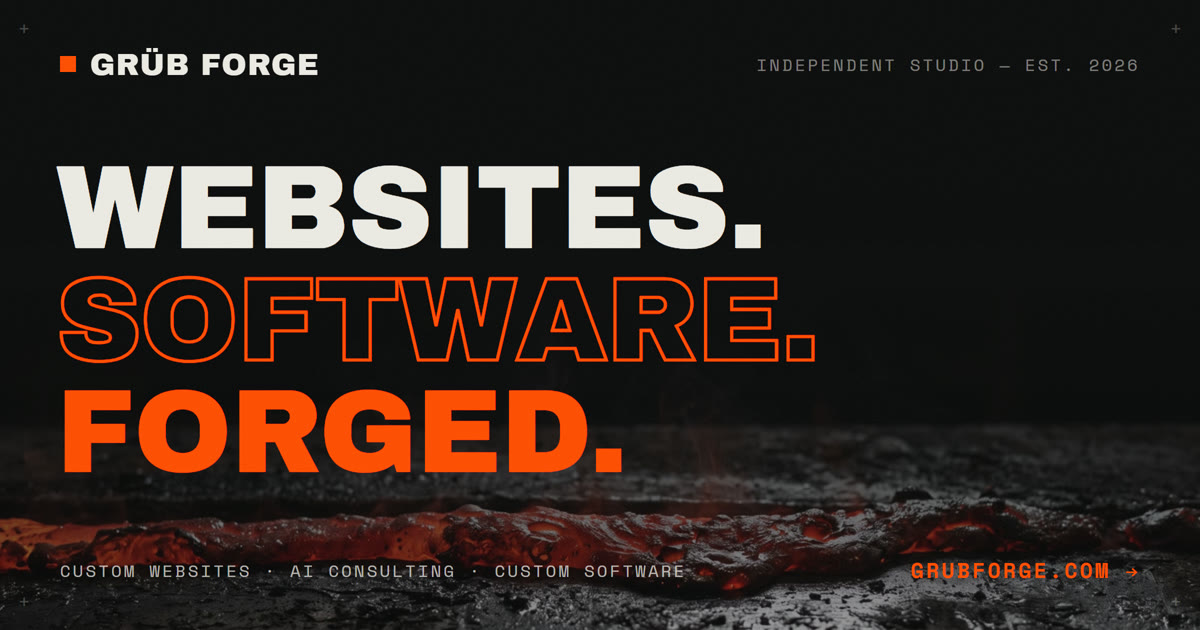
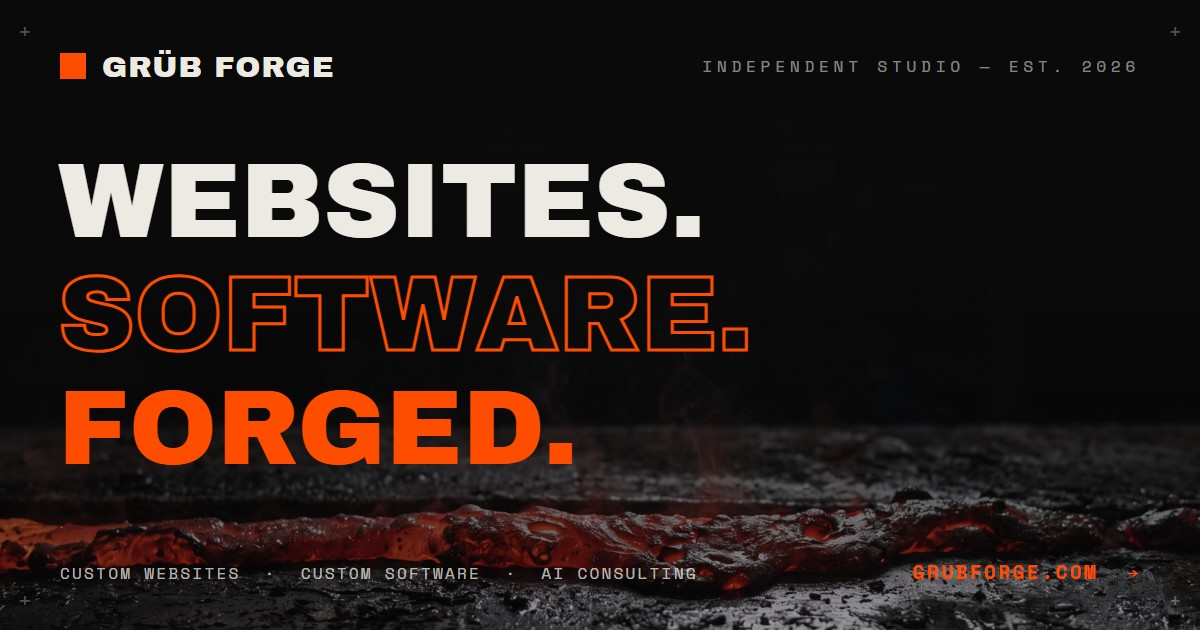
Humanize copy in first person, order services websites-software-AI

diff --git a/index.html b/index.html
@@ -3,10 +3,10 @@
 <head>
   <meta charset="UTF-8">
   <meta name="viewport" content="width=device-width, initial-scale=1.0">
-  <title>GRÜB FORGE — Custom Websites · AI Consulting · Software That Ships</title>
-  <meta name="description" content="GRÜB FORGE is an independent web &amp; software studio. Fully custom websites — no templates, built to convert — plus AI solutions that cut workload and custom software built from first sketch to launch.">
+  <title>GRÜB FORGE — Custom Websites · Software That Ships · AI Consulting</title>
+  <meta name="description" content="GRÜB FORGE is a one-person web &amp; software studio. Fully custom websites with no templates, software built from first sketch to launch, and AI that cuts real workload.">
   <meta property="og:title" content="GRÜB FORGE — Websites. Software. Forged.">
-  <meta property="og:description" content="Fully custom websites. AI consulting. Software that ships. One builder, zero middlemen.">
+  <meta property="og:description" content="Fully custom websites. Software that ships. AI consulting. One builder, zero middlemen.">
   <meta property="og:type" content="website">
   <meta property="og:url" content="https://grubforge.com/">
   <meta property="og:image" content="https://grubforge.com/assets/og-card.jpg">
@@ -983,9 +983,9 @@
 
     <div class="hero-row">
       <p class="hero-sub">
-        <strong>Fully custom websites</strong> that make your business impossible to
-        ignore. AI that <strong>cuts real workload</strong>. Software built around
-        how you actually operate. One builder. Zero middlemen.
+        I build <strong>fully custom websites</strong>, software shaped around how your
+        business actually runs, and AI that <strong>cuts real workload</strong>.
+        One builder. Zero middlemen.
       </p>
       <div class="cta-row">
         <a class="btn btn-solid" href="#contact" data-mag><em>Start a Project</em><em>→</em></a>
@@ -996,8 +996,8 @@
 
   <div class="hero-meta mono">
     <span><b>A.</b> Custom Websites</span>
-    <span><b>B.</b> AI Consulting</span>
-    <span><b>C.</b> Custom Software</span>
+    <span><b>B.</b> Custom Software</span>
+    <span><b>C.</b> AI Consulting</span>
     <span>Scroll ↓</span>
   </div>
 </section>
@@ -1007,12 +1007,12 @@
   <div class="mq">
     <div class="mq-track">
       <div class="mq-group">
-        <span>Custom Websites</span><s>✦</s><span>AI Consulting</span><s>✦</s><span>Custom Software</span><s>✦</s><span>Built to Ship</span><s>✦</s>
-        <span>Custom Websites</span><s>✦</s><span>AI Consulting</span><s>✦</s><span>Custom Software</span><s>✦</s><span>Built to Ship</span><s>✦</s>
+        <span>Custom Websites</span><s>✦</s><span>Custom Software</span><s>✦</s><span>AI Consulting</span><s>✦</s><span>Built to Ship</span><s>✦</s>
+        <span>Custom Websites</span><s>✦</s><span>Custom Software</span><s>✦</s><span>AI Consulting</span><s>✦</s><span>Built to Ship</span><s>✦</s>
       </div>
       <div class="mq-group">
-        <span>Custom Websites</span><s>✦</s><span>AI Consulting</span><s>✦</s><span>Custom Software</span><s>✦</s><span>Built to Ship</span><s>✦</s>
-        <span>Custom Websites</span><s>✦</s><span>AI Consulting</span><s>✦</s><span>Custom Software</span><s>✦</s><span>Built to Ship</span><s>✦</s>
+        <span>Custom Websites</span><s>✦</s><span>Custom Software</span><s>✦</s><span>AI Consulting</span><s>✦</s><span>Built to Ship</span><s>✦</s>
+        <span>Custom Websites</span><s>✦</s><span>Custom Software</span><s>✦</s><span>AI Consulting</span><s>✦</s><span>Built to Ship</span><s>✦</s>
       </div>
     </div>
   </div>
@@ -1024,20 +1024,20 @@
     <p class="slab mono"><i>00</i> The Studio</p>
 
     <p class="mani disp" data-fill data-hot="FORGED.">
-      Most websites are templates. Most software is bloat. Ours is FORGED. measured, heated, hammered — and shipped.
+      Most websites are templates. Most software is bloat. Ours is FORGED. measured, heated, hammered, shipped.
     </p>
 
     <div class="studio-grid">
       <div class="studio-copy" data-rv>
         <p>
-          <strong>GRÜB FORGE</strong> is an independent web &amp; software studio with one
-          operating principle: find the real problem, then build the sharpest possible tool for it.
-          No discovery-phase theater. No four layers of account managers.
+          <strong>GRÜB FORGE</strong> is a one-person web &amp; software studio. The whole
+          pitch: find the real problem, build the sharpest tool for it, and skip everything
+          agencies bolt on to pad the invoice.
         </p>
         <p>
-          When you work with us, you work with <strong>the builder</strong> — the same
-          person who architects the system writes the code that ships it. That's why our
-          products are live, in production, and actually getting used.
+          When you hire the forge, you get <strong>the builder</strong>. I scope the work,
+          I write the code, I answer the email. That's why everything on this page is live
+          and in use, not mocked up.
         </p>
       </div>
 
@@ -1053,13 +1053,13 @@
 
 <!-- ─── SERVICES ────────────────────────────────── -->
 <section id="services">
-  <p class="slab mono"><i>01</i> What We Do</p>
+  <p class="slab mono"><i>01</i> What I Do</p>
 
   <a class="svc" href="mailto:jeremy@grubforge.com?subject=Website%20Inquiry" data-rv>
     <span class="svc-idx mono">/01</span>
     <h3 class="svc-name disp">Custom<br>Websites</h3>
     <div class="svc-info">
-      <p>Your website is your storefront. We design and build fully custom sites — no templates, no page builders — engineered to look serious, load fast, and convert.</p>
+      <p>Your website is your storefront. I design and build it from scratch, make sure it loads fast, and shape every page around turning visitors into customers.</p>
       <ul>
         <li>Fully custom design &amp; build</li>
         <li>No templates. No page-builder bloat</li>
@@ -1070,31 +1070,31 @@
     <span class="svc-arrow">→</span>
   </a>
 
-  <a class="svc" href="mailto:jeremy@grubforge.com?subject=AI%20Consulting%20Inquiry" data-rv>
-    <span class="svc-idx mono">/02</span>
-    <h3 class="svc-name disp">AI Consulting<br>&amp; Automation</h3>
-    <div class="svc-info">
-      <p>We find the hours your team burns on repetitive work — then build AI that takes them back.</p>
-      <ul>
-        <li>Workflow audits &amp; opportunity maps</li>
-        <li>Custom agents &amp; automations</li>
-        <li>Internal copilots on your data</li>
-        <li>Hands-on team enablement</li>
-      </ul>
-    </div>
-    <span class="svc-arrow">→</span>
-  </a>
-
   <a class="svc" href="mailto:jeremy@grubforge.com?subject=Custom%20Software%20Inquiry" data-rv>
-    <span class="svc-idx mono">/03</span>
+    <span class="svc-idx mono">/02</span>
     <h3 class="svc-name disp">Custom<br>Software</h3>
     <div class="svc-info">
-      <p>Platforms, internal tools, and systems built from first sketch to launch — sharp, scalable, and ready for production.</p>
+      <p>Platforms, internal tools, whole products. Bring the napkin sketch and I'll take it to launch.</p>
       <ul>
         <li>Web apps &amp; SaaS platforms</li>
         <li>Internal tools &amp; dashboards</li>
         <li>APIs, integrations &amp; pipelines</li>
         <li>From prototype to production</li>
+      </ul>
+    </div>
+    <span class="svc-arrow">→</span>
+  </a>
+
+  <a class="svc" href="mailto:jeremy@grubforge.com?subject=AI%20Consulting%20Inquiry" data-rv>
+    <span class="svc-idx mono">/03</span>
+    <h3 class="svc-name disp">AI Consulting<br>&amp; Automation</h3>
+    <div class="svc-info">
+      <p>Tell me where your week goes. I find the hours getting burned on repetitive work and build AI that hands them back.</p>
+      <ul>
+        <li>Workflow audits &amp; opportunity maps</li>
+        <li>Custom agents &amp; automations</li>
+        <li>Internal copilots on your data</li>
+        <li>Hands-on team enablement</li>
       </ul>
     </div>
     <span class="svc-arrow">→</span>
@@ -1117,7 +1117,7 @@
             <span class="plate-tag">Strength &amp; Nutrition Coaching</span>
           </span>
           <h3 class="plate-name disp">Higher Power Performance</h3>
-          <p class="plate-desc">Fully custom client website for a strength and nutrition coaching business — designed and built from scratch to turn visitors into booked consults. Live and earning for a real client.</p>
+          <p class="plate-desc">Site I designed and built from scratch for a strength and nutrition coach, with one job: turn visitors into booked consults. Live and earning for a real client.</p>
           <span class="plate-url mono">higherpowerperformance.org</span>
         </div>
         <div class="plate-shot">
@@ -1132,7 +1132,7 @@
           <span class="plate-tag">Hybrid Fitness</span>
         </span>
         <h3 class="plate-name disp">RaceGrid</h3>
-        <p class="plate-desc">Event platform for hybrid fitness racing — heats, scoring, and leaderboards built for the modern format. Actively used by real events.</p>
+        <p class="plate-desc">Heats, scoring, and live leaderboards for hybrid fitness racing. Real events run on it.</p>
         <span class="plate-url mono">racegrid.fit</span>
       </a>
 
@@ -1142,7 +1142,7 @@
           <span class="plate-tag">Forensic Ed</span>
         </span>
         <h3 class="plate-name disp">Latent Lab Academy</h3>
-        <p class="plate-desc">Interactive forensic-science platform turning fingerprint analysis into hands-on digital training for students and instructors.</p>
+        <p class="plate-desc">Interactive forensic-science platform that turns fingerprint analysis into hands-on digital training for students and instructors.</p>
         <span class="plate-url mono">latentlabacademy.com</span>
       </a>
 
@@ -1152,7 +1152,7 @@
           <span class="plate-tag">Live Scoring</span>
         </span>
         <h3 class="plate-name disp">thru.</h3>
-        <p class="plate-desc">Real-time golf tournament scoring — tokenized links, public leaderboards, zero app downloads.</p>
+        <p class="plate-desc">Real-time golf tournament scoring: tokenized links, public leaderboards, and nothing to download.</p>
         <span class="plate-url mono">thru.golf</span>
       </a>
 
@@ -1163,7 +1163,7 @@
           <span class="plate-tag">AI Construction</span>
         </span>
         <h3 class="plate-name disp">ChalkLine</h3>
-        <p class="plate-desc">Our AI construction platform — estimating, planning, and field ops in one tool. A working demo of what we build end-to-end.</p>
+        <p class="plate-desc">My AI construction platform: estimating, planning, and field ops in one tool. A working demo of what I can build, end to end.</p>
         <span class="plate-url mono">chalkline.build</span>
       </a>
 
@@ -1182,14 +1182,14 @@
       <div data-rv>
         <a class="mail-big" href="mailto:jeremy@grubforge.com?subject=Project%20Inquiry" data-mag>jeremy@grubforge.com</a>
         <p class="con-note">
-          Tell us what's slowing you down — a website that isn't winning customers,
-          a workflow bleeding hours, a product that needs building.
-          Real reply from the builder within one business day.
+          Tell me what's slowing you down. A site that isn't winning customers,
+          an idea that needs building, a process eating your week.
+          I read every message and reply within a business day.
         </p>
         <ul class="con-links mono">
           <li><a href="mailto:jeremy@grubforge.com?subject=Website%20Quote">Get a custom website quote</a></li>
-          <li><a href="mailto:jeremy@grubforge.com?subject=AI%20Audit%20Request">Request an AI workflow audit</a></li>
           <li><a href="https://chalkline.build/" target="_blank" rel="noopener">Tour the ChalkLine demo</a></li>
+          <li><a href="mailto:jeremy@grubforge.com?subject=AI%20Audit%20Request">Request an AI workflow audit</a></li>
         </ul>
       </div>
 
@@ -1220,7 +1220,7 @@
         </div>
 
         <button type="submit" class="btn btn-solid f-send"><em>Send It</em><em>→</em></button>
-        <p class="f-err mono" id="f-err">Something broke — email us directly at jeremy@grubforge.com</p>
+        <p class="f-err mono" id="f-err">Something broke. Email me directly at jeremy@grubforge.com</p>
       </form>
     </div>
   </div>
@@ -1378,7 +1378,7 @@
           body: JSON.stringify(Object.fromEntries(new FormData(inq)))
         });
         if (!res.ok) throw new Error();
-        inq.innerHTML = '<div class="f-done"><div class="disp">Received.</div><p>Your inquiry is in the queue. Real reply from the builder within one business day.</p></div>';
+        inq.innerHTML = '<div class="f-done"><div class="disp">Received.</div><p>I read every message myself. You\'ll hear back within one business day.</p></div>';
       } catch {
         btn.disabled = false;
         btn.querySelector('em').textContent = 'Send It';
